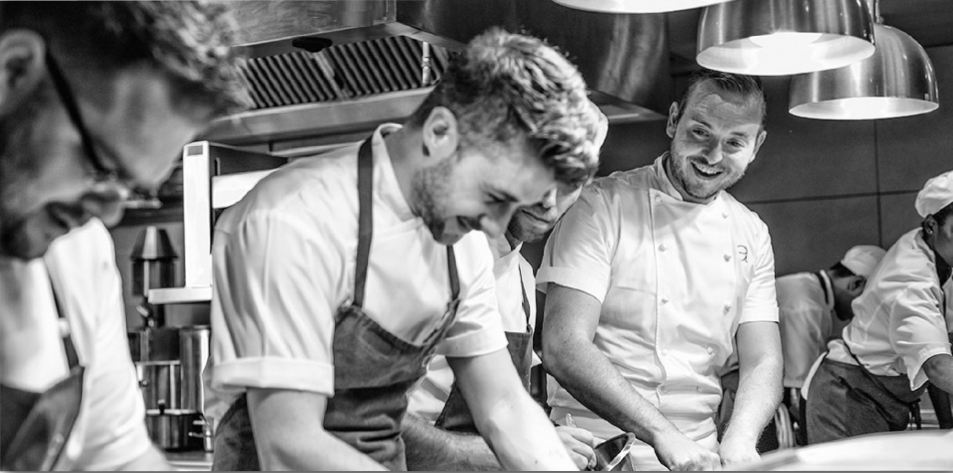
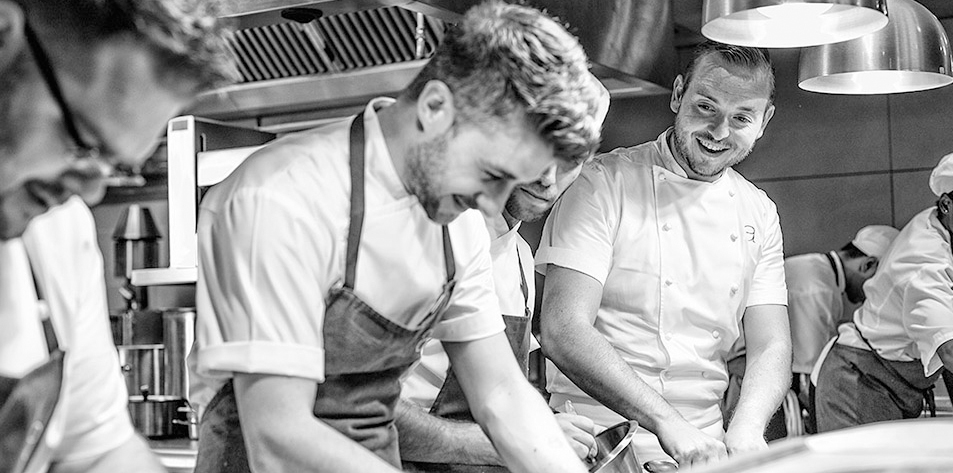
commit sebas 4

diff --git a/css/style.css b/css/style.css
@@ -72,13 +72,14 @@ body {
   background-repeat: no-repeat;
   background-position: center top;
   color: #ffffff;
-  padding: 250px 0 150px;
   margin: 0;
+  height: 100vh;
+
 }
 
 .inicio > * {
   opacity: 0;
- /*transform: translateY(-30px);*/
+ transform: translateY(100px);
   animation-duration: .5s;
   animation-timing-function: ease;
   animation-name: animacion-entrada-header;
@@ -155,7 +156,6 @@ h3 {
   justify-content: center;
   align-content: center;
   color: #ffffff;
-  padding: 80px 0 250px;
   margin: 0;
 }
 
@@ -164,6 +164,7 @@ h3 {
   flex-direction: column;
   width: 80%;
   align-items: center;
+  height: 100vh;
 }
 
 .equipo-intro h1,
@@ -194,11 +195,13 @@ h3 {
 .equipo-intro h1 {
   transform: translate(0, 20px);
   padding: 0 10px;
+  margin: 100px 0 0;
 }
 
 .equipo-intro div h2,
 .equipo-intro div h3 {
   text-align: right;
+  padding: 0 5px;
 }
 
 .intro button {
@@ -225,9 +228,8 @@ h3 {
 /*CSS Para Dispositivos Chicos*/
 
   .inicio  {
-    background-size: 320%;
+    background-size: 400%;
     background-position: center top;
-    padding: 200px 0 150px;
   }
 
   .indx-nav {
@@ -248,26 +250,22 @@ h3 {
   }
 
   .equipo-intro div {
-    background-size: 250%;
+    background-image: url("../images/Equipo-HAmobile.jpg");
+    background-size: 120%;
   }
-
 }
 
 @media screen and (min-width: 601px) and (max-width: 1200px) {
   /*TABLETS Y CRAPPY PCS*/
   .inicio  {
-    background-size: 200%;
+    background-size: 300%;
     background-position: center top;
-    padding: 200px 0 150px;
   }
 
-  .indx-nav {
-    flex-wrap: nowrap;
-    width: 90%;
-  }
+
 
   .indx-nav a {
-    font-size: 1.2em;
+    font-size: 2em;
   }
 
   .inicio span {
